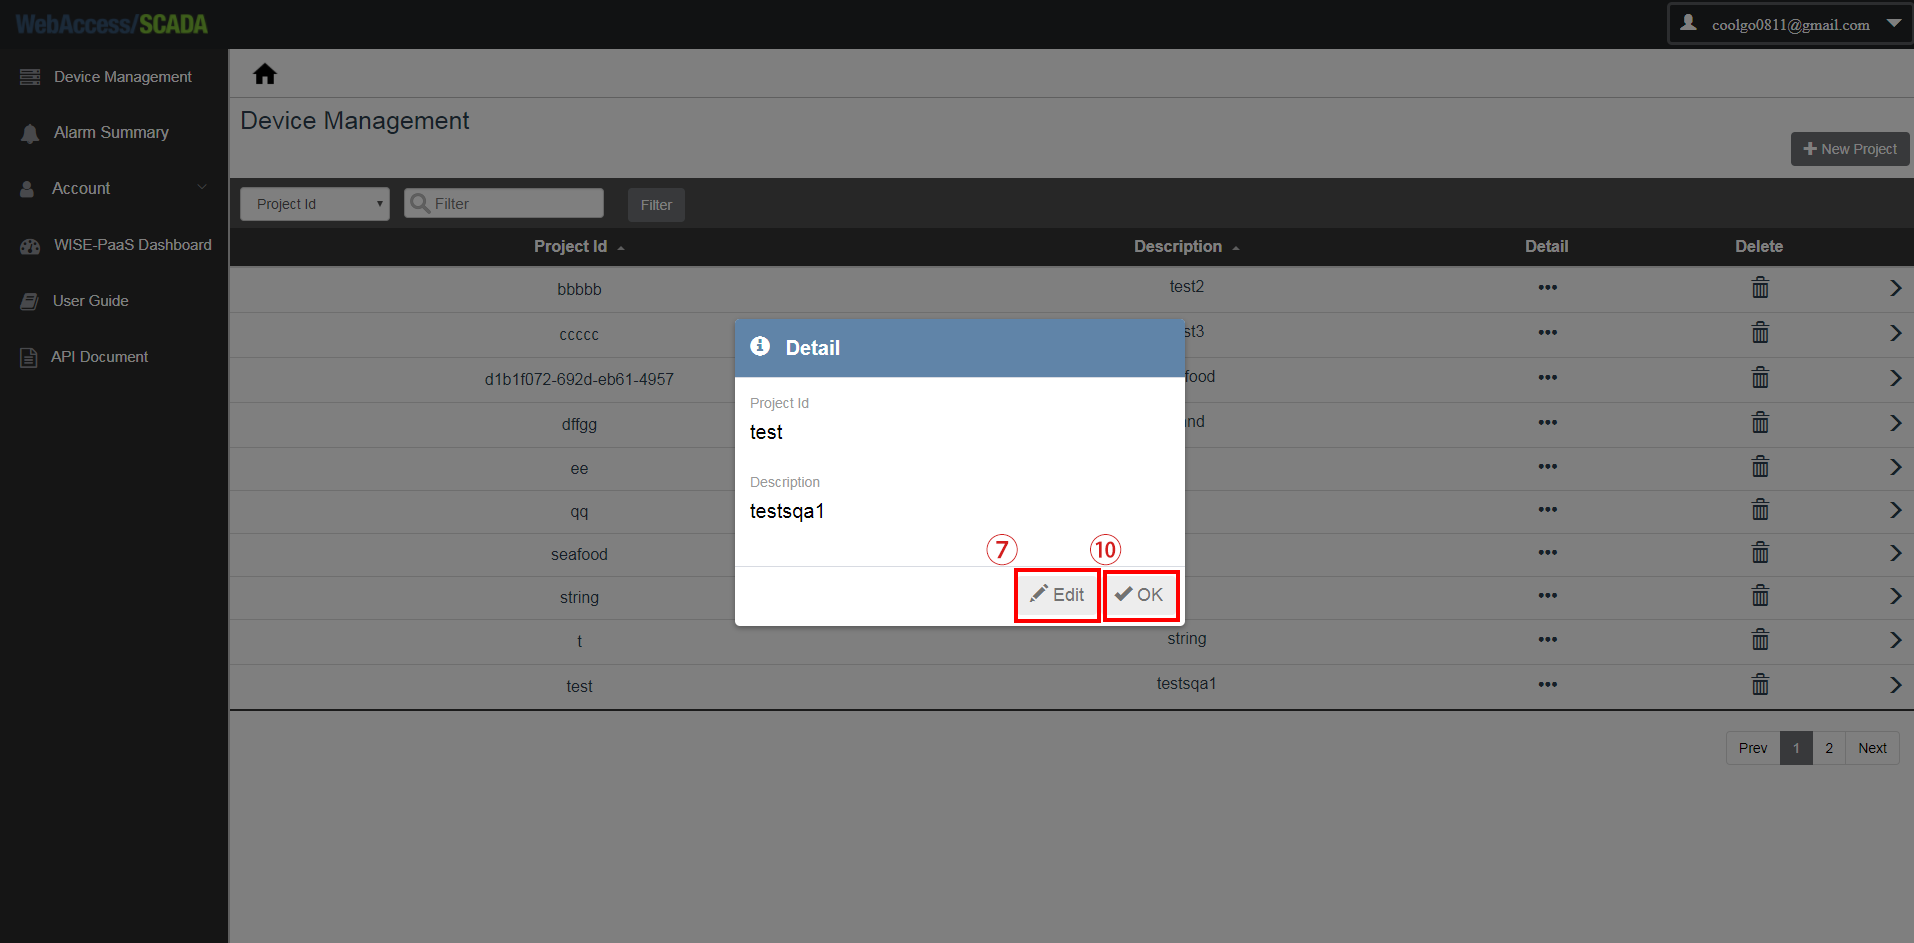
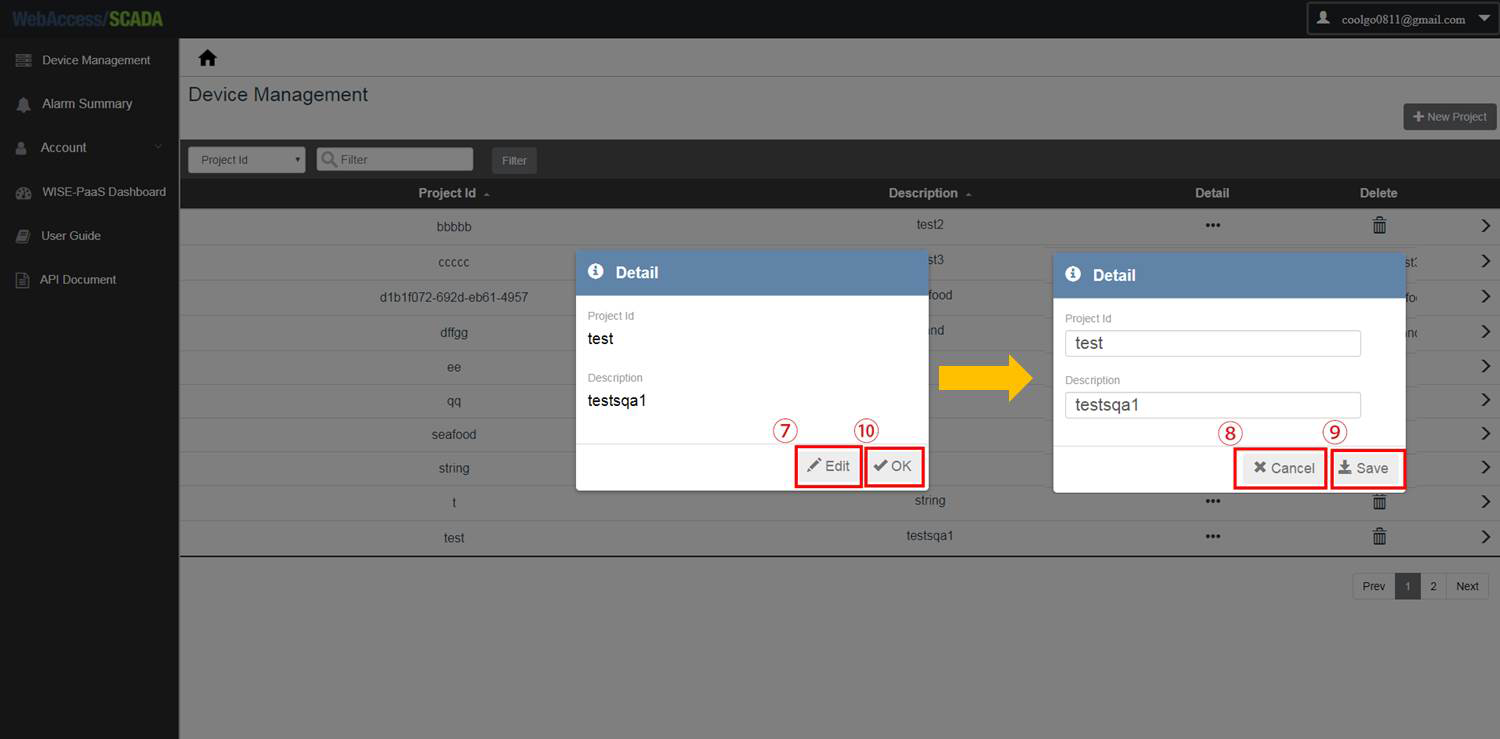
-[portal] img

diff --git a/apps/portal/deviceManagement.md b/apps/portal/deviceManagement.md
@@ -15,7 +15,8 @@
   - UI:  
   ![](/assets/projectlist.PNG)
   ![](/assets/project_edit.png)
-  ![](/assets/project_save.png)   
+  ![](/assets/project_delete.png)  
+  ![](/assets/newproject.png)  
   - 邏輯說明:  
         1. 在Device Management中編輯Project的頁面(Url: /Login/CloudManager/DeviceManagement)  
         　1.1 透過src/components/MenuBar.vue按下1號按鈕執行select function，透過src/router/index.js呼叫src/components/ProjectList.vue進入可編輯Project的頁面。  
@@ -26,7 +27,7 @@
           　2.1.2 若為false即不顯示4、5號按鈕。  
           　2.2 執行getProjectList列出所有project相關資訊。  
         　　2.2.1 呼叫API: GET /Projects。  
-        　　　2.2.1.1 若呼叫成功列出列出project資料，並將要顯示資訊存到projects陣列中。  
+        　　　2.2.1.1 若呼叫成功列出project資料，並將要顯示資訊存到projects陣列中。  
         　　　2.2.1.2 若呼叫失敗則判斷err.response.status === 404狀態。  
         　　　　2.2.1.2.1 若為true，令projects = []。  
         　　　　2.2.1.2.2 若為false，執行$checkToken。   
@@ -64,7 +65,31 @@
         　　　　　6.1.1.1.1.2 若為false，執行createNewProject。  
         　　　　　　6.1.1.1.1.2.1 呼叫API: POST /Projects。  
         　　　　　　　6.1.1.1.1.2.1.1 若呼叫成功執行getProjectList，並令addVisible = false關閉視窗。  
-        　　　　　　　6.1.1.1.1.2.1.2 若呼叫失敗顯示errMsg。      
+        　　　　　　　6.1.1.1.1.2.1.2 若呼叫失敗顯示errMsg。  
+         　　　　6.1.1.2 按下14號按鈕  
+        7. 按下6號按鈕執行handleProjectClick。  
+        　7.1 透過src/router/index.js呼叫src/components/ScadaList.vue進入可編輯SCADA的頁面。     
+  
+  
+  
+
+          
+        
+
+
+- 1.ScadaList.vue  
+  - 目的:使用者在Device Management 頁面可以編輯SCADA的Name、敘述、新增新的SCADA項目、同步、將SCADA移動至其他Project，另外也可以執行刪除動作。 
+  - 架構說明:  
+  Vue-components  
+  　　src/components/ProjectManger/ScadaList.vue  
+  　　src/components/Common/Modal.vue  
+  　　src/components/Common/ConfigModal.vue   
+  Vue-router  
+  　　src/router/index.js   
+  - UI:  
+  ![](/assets/projectlist.PNG)  
+  - 邏輯說明:  
+        1. 在Device Management中編輯SCADA的頁面(Url: /Login/CloudManager/DeviceManagement/:projectId)       
           
         
 
